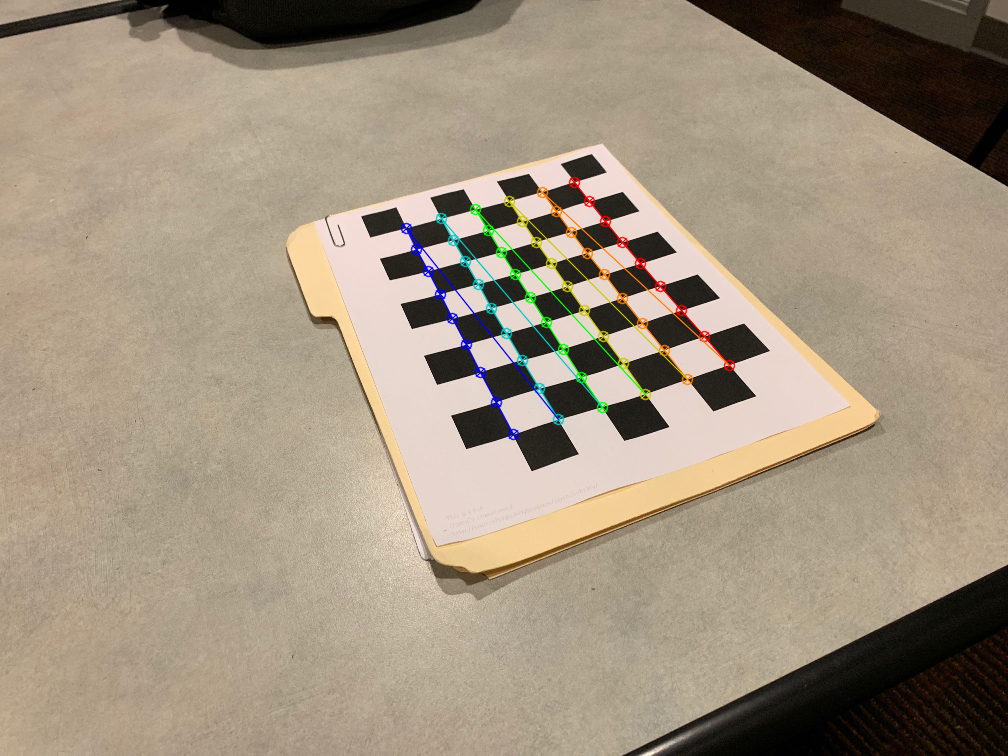
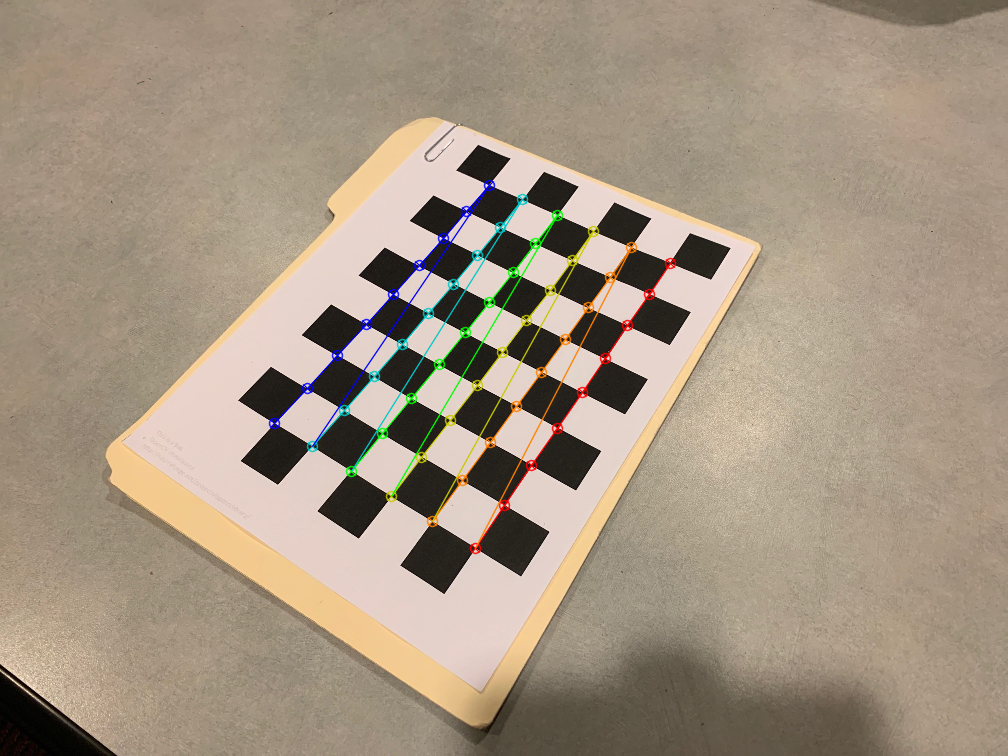
Pose (#2)
* Commiting progress

* triangulate points working

* finished match and project, part 3

diff --git a/pose/estimation.py b/pose/estimation.py
@@ -1,0 +1,183 @@
+import cv2 as cv
+
+import numpy as np
+from matplotlib import pyplot as plt
+
+from parameters import  intrinsic as it
+
+from utility import constants as ct
+from utility import imageutil as im
+
+
+def get_fundamental_matrix(intrinsic_matrix, distortion_parameters, display=ct.DONT_DISPLAY_PLOT):
+    pts1, pts2, img1, img2 = __get_matching_points__(intrinsic_matrix, distortion_parameters, display)
+    F, pts1, pts2 = __compute_fundamental_matrix__(pts1, pts2)
+
+    return F, pts1, pts2, img1, img2
+
+
+def display_epipolar_lines():
+    return
+
+
+def __get_matching_points__(intrinsic_matrix, distortion_parameters, display=ct.DONT_DISPLAY_PLOT):
+
+    images = im.load_images_from_folder(ct.POSE_READ_PATH, COLOR=0)
+
+    img1, img2 = __preprocess_(images, intrinsic_matrix, distortion_parameters, display)
+
+    sift = cv.xfeatures2d.SIFT_create()
+
+    # find the keypoints and descriptors with SIFT
+    kp1, des1 = sift.detectAndCompute(img1, None)
+    kp2, des2 = sift.detectAndCompute(img2, None)
+
+    # FLANN parameters
+    FLANN_INDEX_KDTREE = 0
+    index_params = dict(algorithm=FLANN_INDEX_KDTREE, trees=5)
+    search_params = dict(checks=50)
+
+    flann = cv.FlannBasedMatcher(index_params, search_params)
+    matches = flann.knnMatch(des1, des2, k=2)
+
+    good = []
+    pts1 = []
+    pts2 = []
+
+    # ratio test as per Lowe's paper
+    for i, (m, n) in enumerate(matches):
+        if m.distance < 0.8 * n.distance:
+            good.append(m)
+            pts2.append(kp2[m.trainIdx].pt)
+            pts1.append(kp1[m.queryIdx].pt)
+
+    return pts1, pts2, img1, img2
+
+
+def __compute_fundamental_matrix__(pts1, pts2):
+    pts1 = np.int32(pts1)
+    pts2 = np.int32(pts2)
+    F, mask = cv.findFundamentalMat(pts1, pts2, cv.FM_LMEDS)
+
+    # We select only inlier points
+    pts1 = pts1[mask.ravel() == 1]
+    pts2 = pts2[mask.ravel() == 1]
+
+    return F, pts1, pts2
+
+
+def drawlines(img1, img2, lines, pts1, pts2):
+    """
+    img1 - image on which we draw the epilines for the points in img2
+        lines - corresponding epilines
+    """
+    r, c = img1.shape
+
+    img1 = cv.cvtColor(img1, cv.COLOR_GRAY2BGR)
+    img2 = cv.cvtColor(img2, cv.COLOR_GRAY2BGR)
+
+    for r, pt1, pt2 in zip(lines, pts1, pts2):
+        color = tuple(np.random.randint(0, 255, 3).tolist())
+        x0, y0 = map(int, [0, -r[2]/r[1]])
+        x1, y1 = map(int, [c, -(r[2]+r[0]*c)/r[1]])
+        img1 = cv.line(img1, (x0, y0), (x1, y1), color, 1)
+        img1 = cv.circle(img1, tuple(pt1), 5, color, -1)
+        img2 = cv.circle(img2, tuple(pt2), 5, color, -1)
+
+    return img1, img2
+
+
+def draw_epipolar_lines(F, img1, img2, pts1, pts2, display=ct.DONT_DISPLAY_PLOT):
+    # Find epilines corresponding to points in right image (second image) and
+    # drawing its lines on left image
+    lines1 = cv.computeCorrespondEpilines(pts2.reshape(-1, 1, 2), 2, F)
+    lines1 = lines1.reshape(-1, 3)
+    img5, img6 = drawlines(img1, img2, lines1, pts1, pts2)
+
+    # Find epilines corresponding to points in left image (first image) and
+    # drawing its lines on right image
+    lines2 = cv.computeCorrespondEpilines(pts1.reshape(-1, 1, 2), 1, F)
+    lines2 = lines2.reshape(-1, 3)
+    img3, img4 = drawlines(img2, img1, lines2, pts2, pts1)
+
+    im.write(ct.POSE_WRITE_PATH + "epipolar_lines1.jpg", img5)
+    im.write(ct.POSE_WRITE_PATH + "epipolar_lines2.jpg", img3)
+
+    if display:
+        plt.subplot(121), plt.imshow(img5)
+        plt.subplot(122), plt.imshow(img3)
+        plt.show()
+
+
+def __preprocess_(images, intrinsic_matrix, distortion_parameters, display=ct.DONT_DISPLAY_PLOT):
+    undistorted1 = it.undistort(cv.resize(images[0], (ct.IMAGE_X, ct.IMAGE_Y)), intrinsic_matrix, distortion_parameters, "undistorted1.jpg", display)
+    undistorted2 = it.undistort(cv.resize(images[1], (ct.IMAGE_X, ct.IMAGE_Y)), intrinsic_matrix, distortion_parameters, "undistorted2.jpg", display)
+
+    # img1 = cv.resize(undistorted1, (ct.IMAGE_X, ct.IMAGE_Y))
+    # img2 = cv.resize(undistorted2, (ct.IMAGE_X, ct.IMAGE_Y))
+
+    return undistorted1, undistorted2
+
+def __get_rotation_and_translation__(pts1, pts2, intrinsic_matrix):
+    essential_matrix, _ = cv.findEssentialMat(pts1, pts2, intrinsic_matrix)
+    R1, R2, t = cv.decomposeEssentialMat(essential_matrix)
+    return R1, R2, t
+
+def __triangulate_points__(intrinsic_matrix, pts1, pts2, R1, R2, t):
+    # R1, R2, t = __get_rotation_and_translation__(pts1, pts2, intrinsic_matrix)
+    projection_1 = np.matmul(intrinsic_matrix, np.hstack((np.identity(3), t)))
+    projection_2 = np.matmul(intrinsic_matrix, np.hstack((R1, -1*t)))
+
+    print "----------------------------------------------------"
+    print "Rotation Matrix:"
+    print R1
+    print "----------------------------------------------------"
+    print "Translation Vector:"
+    print -1*t
+
+    pts1 = np.transpose(pts1)
+    pts2 = np.transpose(pts2)
+
+    points_4d = cv.triangulatePoints(np.array(projection_1, dtype=np.float), np.array(projection_2, dtype=np.float), np.array(pts1,dtype=np.float), np.array(pts2, dtype=np.float))
+
+    i = 0
+    for x in points_4d[3]:
+        points_4d[0][i] = points_4d[0][i]/x
+        points_4d[1][i] = points_4d[1][i]/x
+        points_4d[2][i] = points_4d[2][i]/x
+        points_4d[3][i] = points_4d[3][i]/x
+        i += 1
+
+    return projection_1, points_4d
+
+def __project_points__(projection, points_4d, pts1, display=ct.DONT_DISPLAY_PLOT):
+    projected = np.matmul(projection, points_4d)
+    i = 0
+    for x in projected[2]:
+        projected[0][i] = projected[0][i]/x
+        projected[1][i] = projected[1][i]/x
+        projected[2][i] = projected[2][i]/x
+        i += 1
+
+    x = projected[0]
+    y = projected[1]
+
+
+    im = plt.imread(ct.POSE_WRITE_PATH+"undistorted1.jpg",cv.IMREAD_UNCHANGED)
+    im = cv.resize(im, (ct.IMAGE_X, ct.IMAGE_Y))
+    implot = plt.imshow(im,cmap='gray')
+    plt.scatter(x, y, s=40, c='b', alpha=0.5)
+    # plt.show()
+    plt.scatter(pts1[:,0], pts1[:, 1], c="g", s=20, alpha="1")
+    if display:
+        plt.show()
+    plt.savefig(ct.POSE_WRITE_PATH+'projected_points.jpg')
+
+
+def match_and_project(intrinsic_matrix, distortion_coefficients, display=ct.DONT_DISPLAY_PLOT):
+    _pts1, _pts2, img1, img2 = __get_matching_points__(intrinsic_matrix, distortion_coefficients, display)
+    F, pts1, pts2 = __compute_fundamental_matrix__(_pts1, _pts2)
+    draw_epipolar_lines(F, img1, img2, pts1, pts2, display)
+    R1, R2, t = __get_rotation_and_translation__(pts1, pts2, intrinsic_matrix)
+    projetion, points_4d = __triangulate_points__(intrinsic_matrix, pts1, pts2, R1, R2, t)
+    __project_points__(projetion, points_4d, pts1, display)

diff --git a/parameters/intrinsic.py b/parameters/intrinsic.py
@@ -6,23 +6,11 @@ from utility import imageutil as im
 
 
 def calibrate(display=ct.DONT_DISPLAY_PLOT):
+
     mtx, dist, rvecs, tvecs, objpoints, imgpoints = get_calibration_parameters(display)
     mean_error = calculate_reprojection_error(mtx, dist, rvecs, tvecs, objpoints, imgpoints)
 
     return mtx, dist, mean_error
-
-
-def calculate_reprojection_error(mtx, dist, rvecs, tvecs, objpoints, imgpoints):
-    tot_error = 0
-
-    for i in range(0, len(objpoints)):
-        imgpoints2, _ = cv.projectPoints(objpoints[i], rvecs[i], tvecs[i], mtx, dist)
-        error = cv.norm(imgpoints[i], imgpoints2, cv.NORM_L2) / len(imgpoints2)
-        tot_error += error
-
-    print("total error: ", tot_error / len(objpoints))
-
-    return tot_error / len(objpoints)
 
 
 def get_calibration_parameters(display=ct.DONT_DISPLAY_PLOT):
@@ -38,10 +26,11 @@ def get_calibration_parameters(display=ct.DONT_DISPLAY_PLOT):
     imgpoints = []  # 2d points in image plane.
 
     images = im.load_images_from_folder(ct.CALIBRATION_READ_PATH)
+
     i = 0
 
     for image in images:
-        image = cv.resize(image, (ct.CALIB_IMAGE_X, ct.CALIB_IMAGE_Y))
+        image = cv.resize(image, (ct.IMAGE_X, ct.IMAGE_Y))
         gray = cv.cvtColor(image, cv.COLOR_BGR2GRAY)
         i = i + 1
         # Find the chess board corners
@@ -56,7 +45,7 @@ def get_calibration_parameters(display=ct.DONT_DISPLAY_PLOT):
 
             cv.drawChessboardCorners(image, (ct.Y_COUNT_CHESS, ct.X_COUNT_CHESS), corners, ret)
 
-            im.write(ct.CALIBRATION_WRITE_PATH + "/calibration" + str(i) + ".png", image)
+            im.write(ct.CALIBRATION_WRITE_PATH + "calibration" + str(i) + ".png", image)
 
             if display:
                 im.display('Image', image)
@@ -64,3 +53,67 @@ def get_calibration_parameters(display=ct.DONT_DISPLAY_PLOT):
         ret, mtx, dist, rvecs, tvecs = cv.calibrateCamera(objpoints, imgpoints, gray.shape[::-1], None, None)
 
     return mtx, dist, rvecs, tvecs, objpoints, imgpoints
+
+
+def calculate_reprojection_error(mtx, dist, rvecs, tvecs, objpoints, imgpoints):
+    tot_error = 0
+
+    for i in range(0, len(objpoints)):
+        imgpoints2, _ = cv.projectPoints(objpoints[i], rvecs[i], tvecs[i], mtx, dist)
+        error = cv.norm(imgpoints[i], imgpoints2, cv.NORM_L2) / len(imgpoints2)
+        tot_error += error
+
+    print("total error: ", tot_error / len(objpoints))
+
+    return tot_error / len(objpoints)
+
+
+def undistort1(image, intrinsic_matrix, distortion_parameters, name, display=ct.DONT_DISPLAY_PLOT):
+    h, w = image.shape[:2]
+    # print(h,w)
+    new_intrinsic_matrix, roi = cv.getOptimalNewCameraMatrix(intrinsic_matrix, distortion_parameters, (w, h), 0, (w, h))
+
+    # undistort
+    undistored_image = cv.undistort(image, intrinsic_matrix, distortion_parameters, None, new_intrinsic_matrix)
+    # crop the image
+
+    x, y, w, h = roi
+    undistored_image = undistored_image[y:y + h, x:x + w]
+
+    cv.imwrite(ct.POSE_WRITE_PATH + name, undistored_image)
+
+    if display:
+        im.display("Undistored Image", undistored_image)
+
+    return undistored_image
+
+
+def undistort2(image, intrinsic_matrix, distortion_parameters, name, display=ct.DONT_DISPLAY_PLOT):
+    h, w = image.shape[:2]
+    # print(h,w)
+    new_intrinsic_matrix, roi = cv.getOptimalNewCameraMatrix(intrinsic_matrix, distortion_parameters, (w, h), 0, (w, h))
+
+    # undistort
+    mapx, mapy = cv.initUndistortRectifyMap(intrinsic_matrix, distortion_parameters, None, new_intrinsic_matrix, (w, h), 5)
+    undistored_image = cv.remap(image, mapx, mapy, cv.INTER_LINEAR)
+    # crop the image
+
+    x, y, w, h = roi
+
+    undistored_image = undistored_image[y:y + h, x:x + w]
+
+    # cv.imwrite('calibresult.png', dst)
+    cv.imwrite(ct.POSE_WRITE_PATH + name, undistored_image)
+
+    if display:
+        im.display("Undistorted Image", undistored_image)
+
+    return undistored_image
+
+
+def undistort(image, intrinsic_matrix, distortion_parameters, name, display=ct.DONT_DISPLAY_PLOT):
+    undistorted_image = cv.undistort(image, intrinsic_matrix, distortion_parameters, None, None)
+    if display:
+        im.display("Undistorted Image", undistorted_image)
+    cv.imwrite(ct.POSE_WRITE_PATH + name, image)
+    return image

diff --git a/utility/imageutil.py b/utility/imageutil.py
@@ -5,11 +5,11 @@ import os
 from utility import constants as ct
 
 
-def read(path, callback=None):
+def read(path, callback=None, COLOR=1):
     # Loads an image from a specified path
     # Allows for an optional callback function that is applied to the image
 
-    img = cv.imread(path, 1)
+    img = cv.imread(path, COLOR)
     if callback is not None:
         img = callback(img)
     return img
@@ -28,11 +28,11 @@ def write(image_path, image):
     cv.imwrite(image_path, image)
 
 
-def load_images_from_folder(folder_path, callback=None):
+def load_images_from_folder(folder_path, callback=None, COLOR=1):
     # Loads images and accepts an optional callback function that is applied to each image
     images = []
     for filename in os.listdir(folder_path):
-        img = cv.imread(os.path.join(folder_path, filename))
+        img = cv.imread(os.path.join(folder_path, filename), COLOR)
         if img is not None:
             if callback is not None:
                 img = callback(img)

diff --git a/utility/constants.py b/utility/constants.py
@@ -5,15 +5,15 @@ DISPLAY_PLOT = True
 
 # -----------------------------------------------
 # CALIBRATION CONSTANTS
-CALIB_IMAGE_X = 1008
-CALIB_IMAGE_Y = 756
+IMAGE_X = 1008
+IMAGE_Y = 756
 
 X_COUNT_CHESS = 6
 Y_COUNT_CHESS = 9
 
 # -----------------------------------------------
 # IMAGE PATHS
-CALIBRATION_WRITE_PATH = 'images/parameters/out'
+CALIBRATION_WRITE_PATH = 'images/parameters/out/'
 CALIBRATION_READ_PATH = 'images/parameters/'
 
 POSE_WRITE_PATH = 'images/pose/out/'

diff --git a/stereo.py b/stereo.py
@@ -1,6 +1,9 @@
 from parameters import intrinsic as it
+from pose import estimation as et
 from utility import constants as ct
 
 DISPLAY = ct.DONT_DISPLAY_PLOT
 
 intrinsic_matrix, distortion_coefficients, mean_error = it.calibrate(DISPLAY)
+
+et.match_and_project(intrinsic_matrix, distortion_coefficients, DISPLAY)
